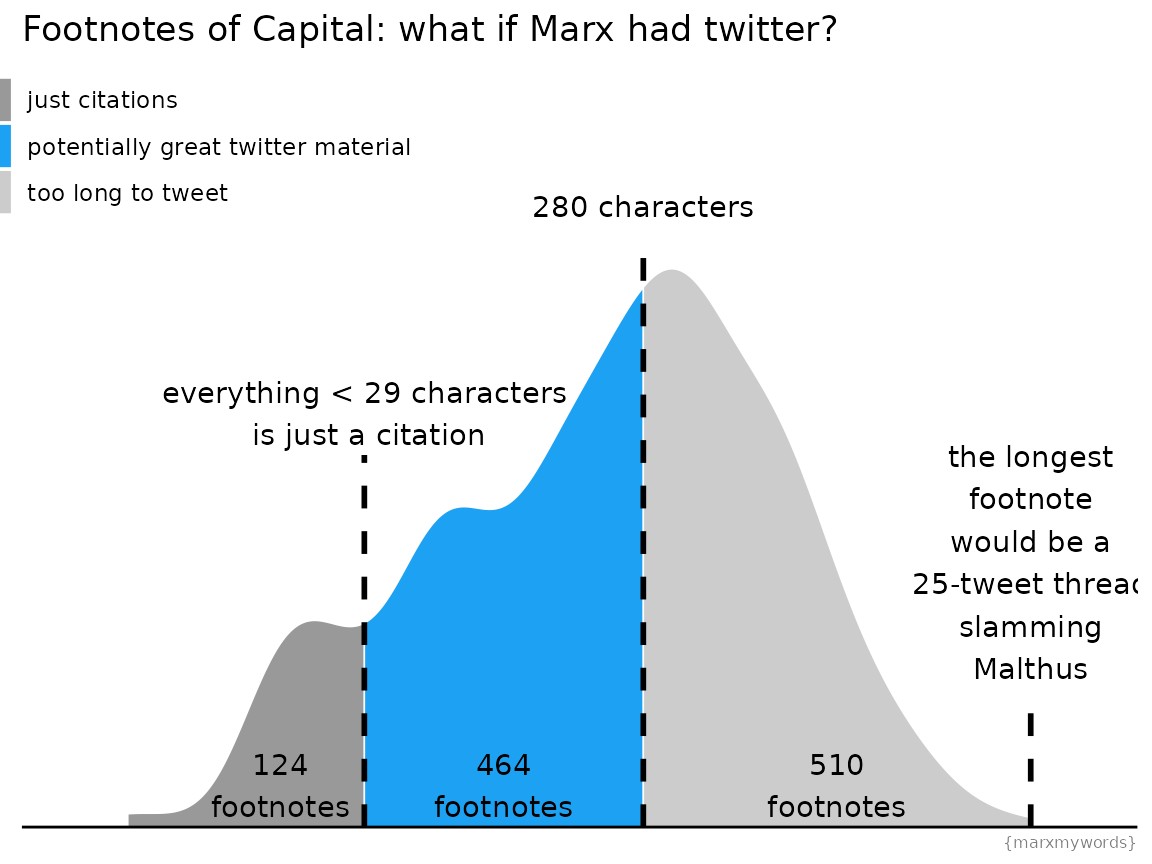
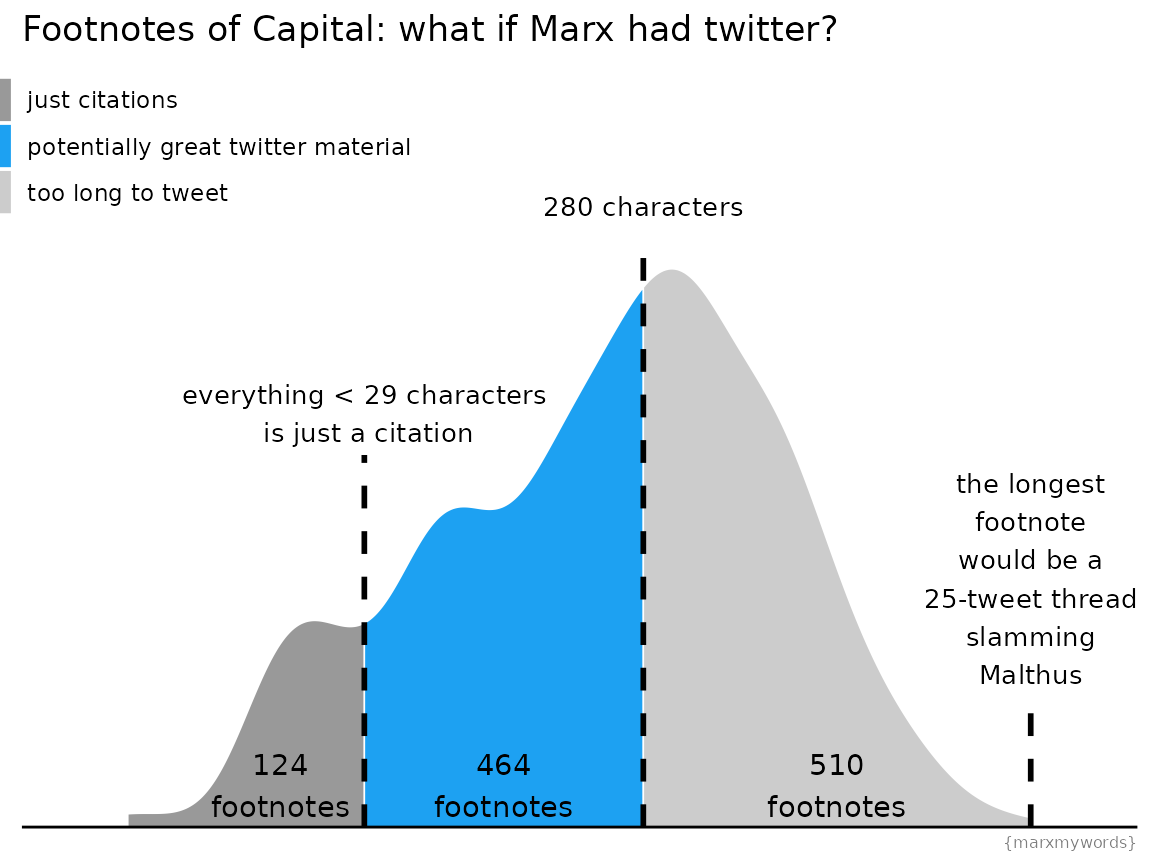
Built site for marxmywords: 0.0.0.1@a7e75dc

Changed region(s): [[0.7812, 0.5, 1.0, 0.8125], [0.125, 0.4375, 0.5, 0.5312], [0.4688, 0.2188, 0.6562, 0.25]]

diff --git a/articles/capital_footnotes.html b/articles/capital_footnotes.html
@@ -273,6 +273,7 @@ img {
     <span class="st">"text"</span>,
     x <span class="op">=</span> <span class="fu"><a href="https://rdrr.io/r/base/Log.html" class="external-link">log10</a></span><span class="op">(</span><span class="fl">28</span><span class="op">)</span>,
     y <span class="op">=</span> <span class="fl">0.5</span>,
+    size <span class="op">=</span> <span class="fl">3.5</span>,
     label <span class="op">=</span> <span class="st">"everything &lt; 29 characters\n is just a citation"</span>
   <span class="op">)</span> <span class="op">+</span>
   <span class="fu">annotate</span><span class="op">(</span>
@@ -284,7 +285,8 @@ img {
   <span class="fu">annotate</span><span class="op">(</span>
     <span class="st">"text"</span>,
     x <span class="op">=</span> <span class="fu"><a href="https://rdrr.io/r/base/Log.html" class="external-link">log10</a></span><span class="op">(</span><span class="fl">6852</span><span class="op">)</span>,
-    y <span class="op">=</span> <span class="fl">0.32</span>,
+    y <span class="op">=</span> <span class="fl">0.30</span>,
+    size <span class="op">=</span> <span class="fl">3.5</span>,
     label <span class="op">=</span> <span class="st">"the longest\nfootnote\nwould be a\n25-tweet thread\nslamming\nMalthus"</span>
   <span class="op">)</span> <span class="op">+</span>
   <span class="fu">annotate</span><span class="op">(</span>
@@ -297,6 +299,7 @@ img {
     <span class="st">"text"</span>,
     x <span class="op">=</span> <span class="fu"><a href="https://rdrr.io/r/base/Log.html" class="external-link">log10</a></span><span class="op">(</span><span class="fl">280</span><span class="op">)</span>,
     y <span class="op">=</span> <span class="fl">0.75</span>,
+    size <span class="op">=</span> <span class="fl">3.5</span>,
     label <span class="op">=</span> <span class="st">"280 characters"</span>
   <span class="op">)</span> <span class="op">+</span>
   <span class="fu">annotate</span><span class="op">(</span>
@@ -388,7 +391,7 @@ img {
   <span class="op">)</span> <span class="op">+</span>
   <span class="fu">xlab</span><span class="op">(</span><span class="st">"# mentions"</span><span class="op">)</span> <span class="op">+</span>
   <span class="fu">labs</span><span class="op">(</span>
-    title <span class="op">=</span> <span class="st">"Capital: economists &amp; philosophers by # mentions"</span>,
+    title <span class="op">=</span> <span class="st">"Capital: citated writers by # mentions"</span>,
     caption <span class="op">=</span> <span class="st">"{marxmywords}"</span>
   <span class="op">)</span></code></pre></div>
 <p><img src="capital_footnotes_files/figure-html/unnamed-chunk-9-1.png" width="384" style="display: block; margin: auto;"> (Note that I didn’t distinguish between father and son James Mill and John Stuart Mill. Some footnotes were added by Engels and signed with his full name, and so would be counted in here, however others are signed F.E., and would not be included in this count.)</p>
